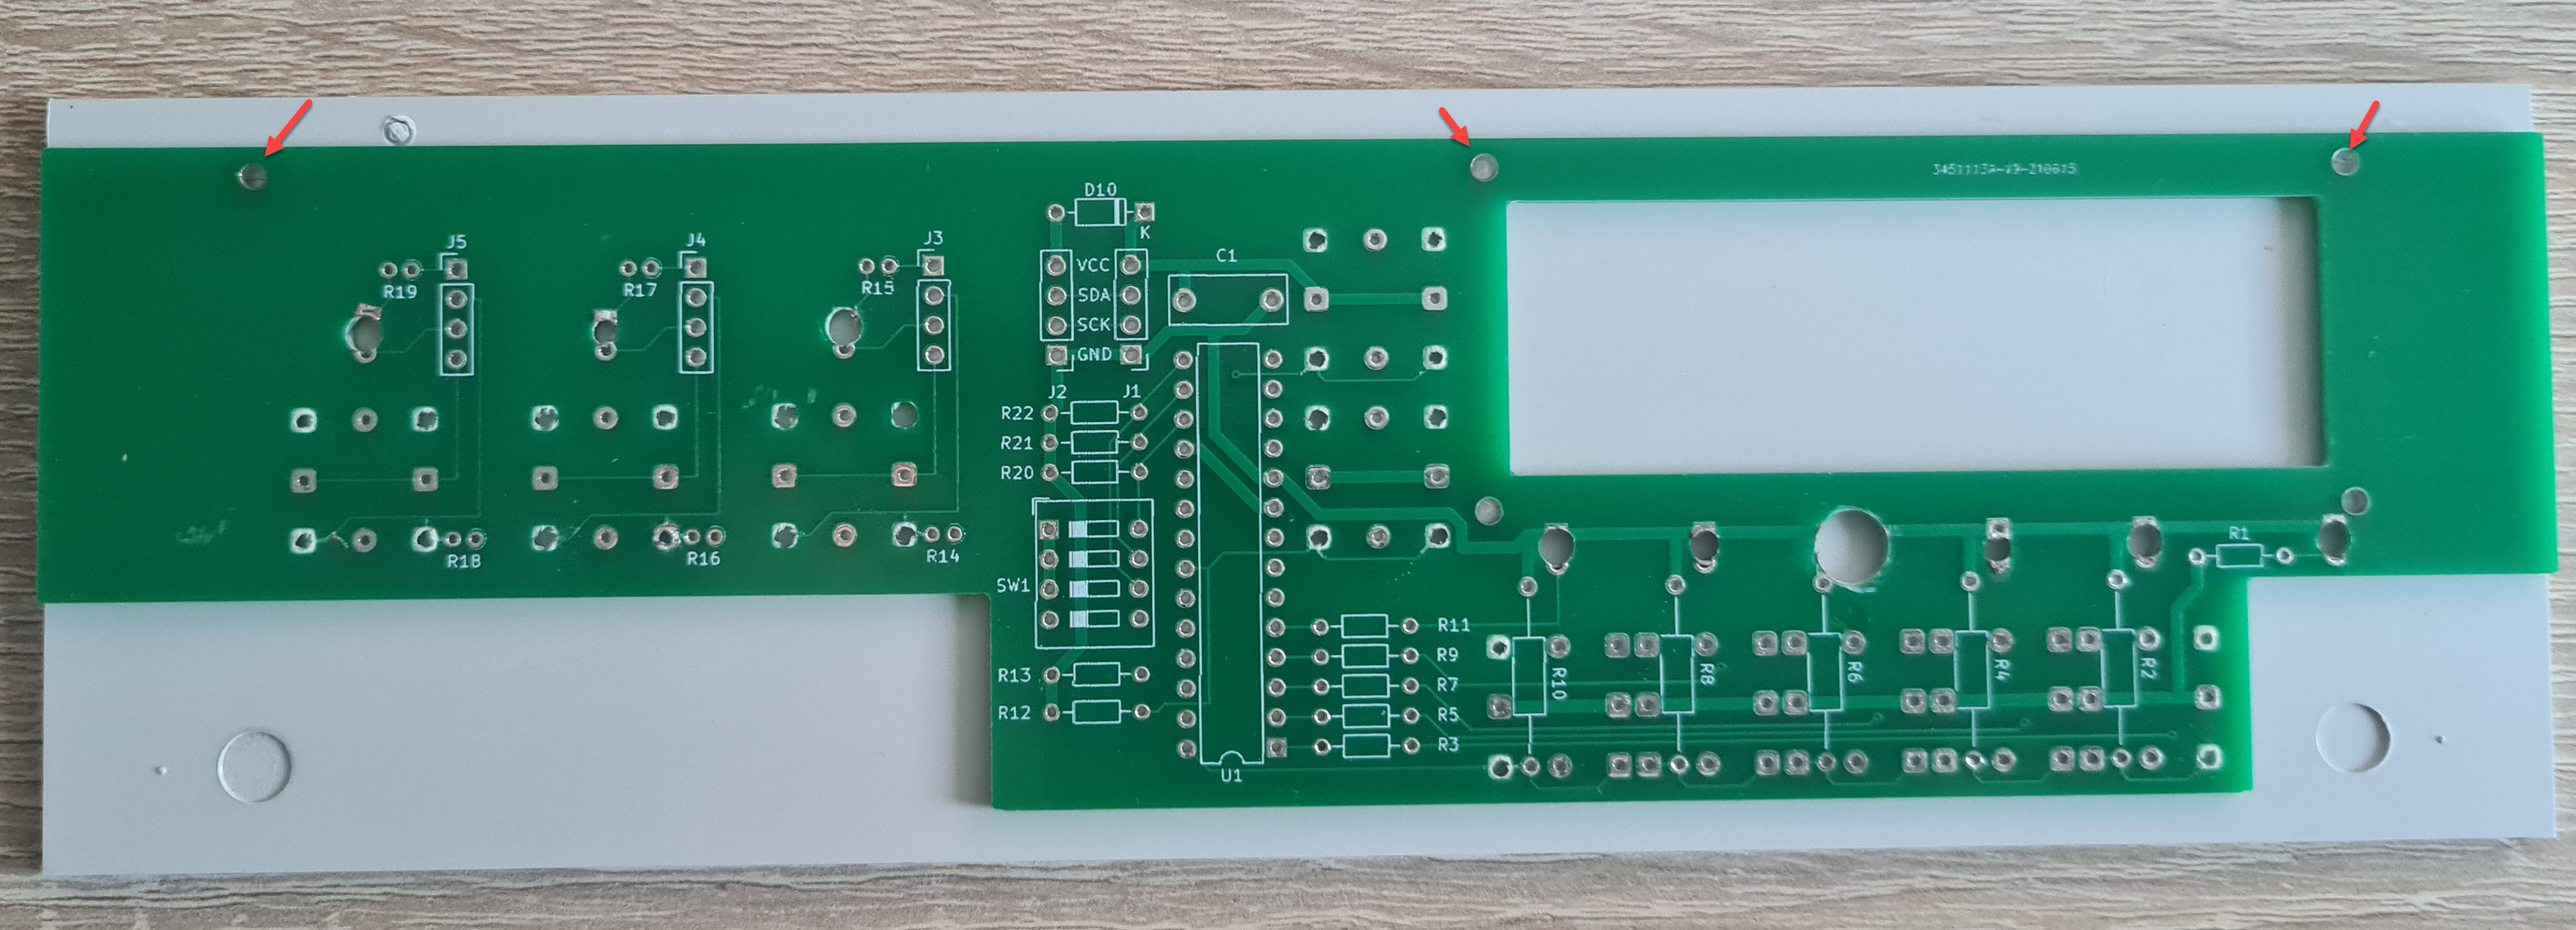
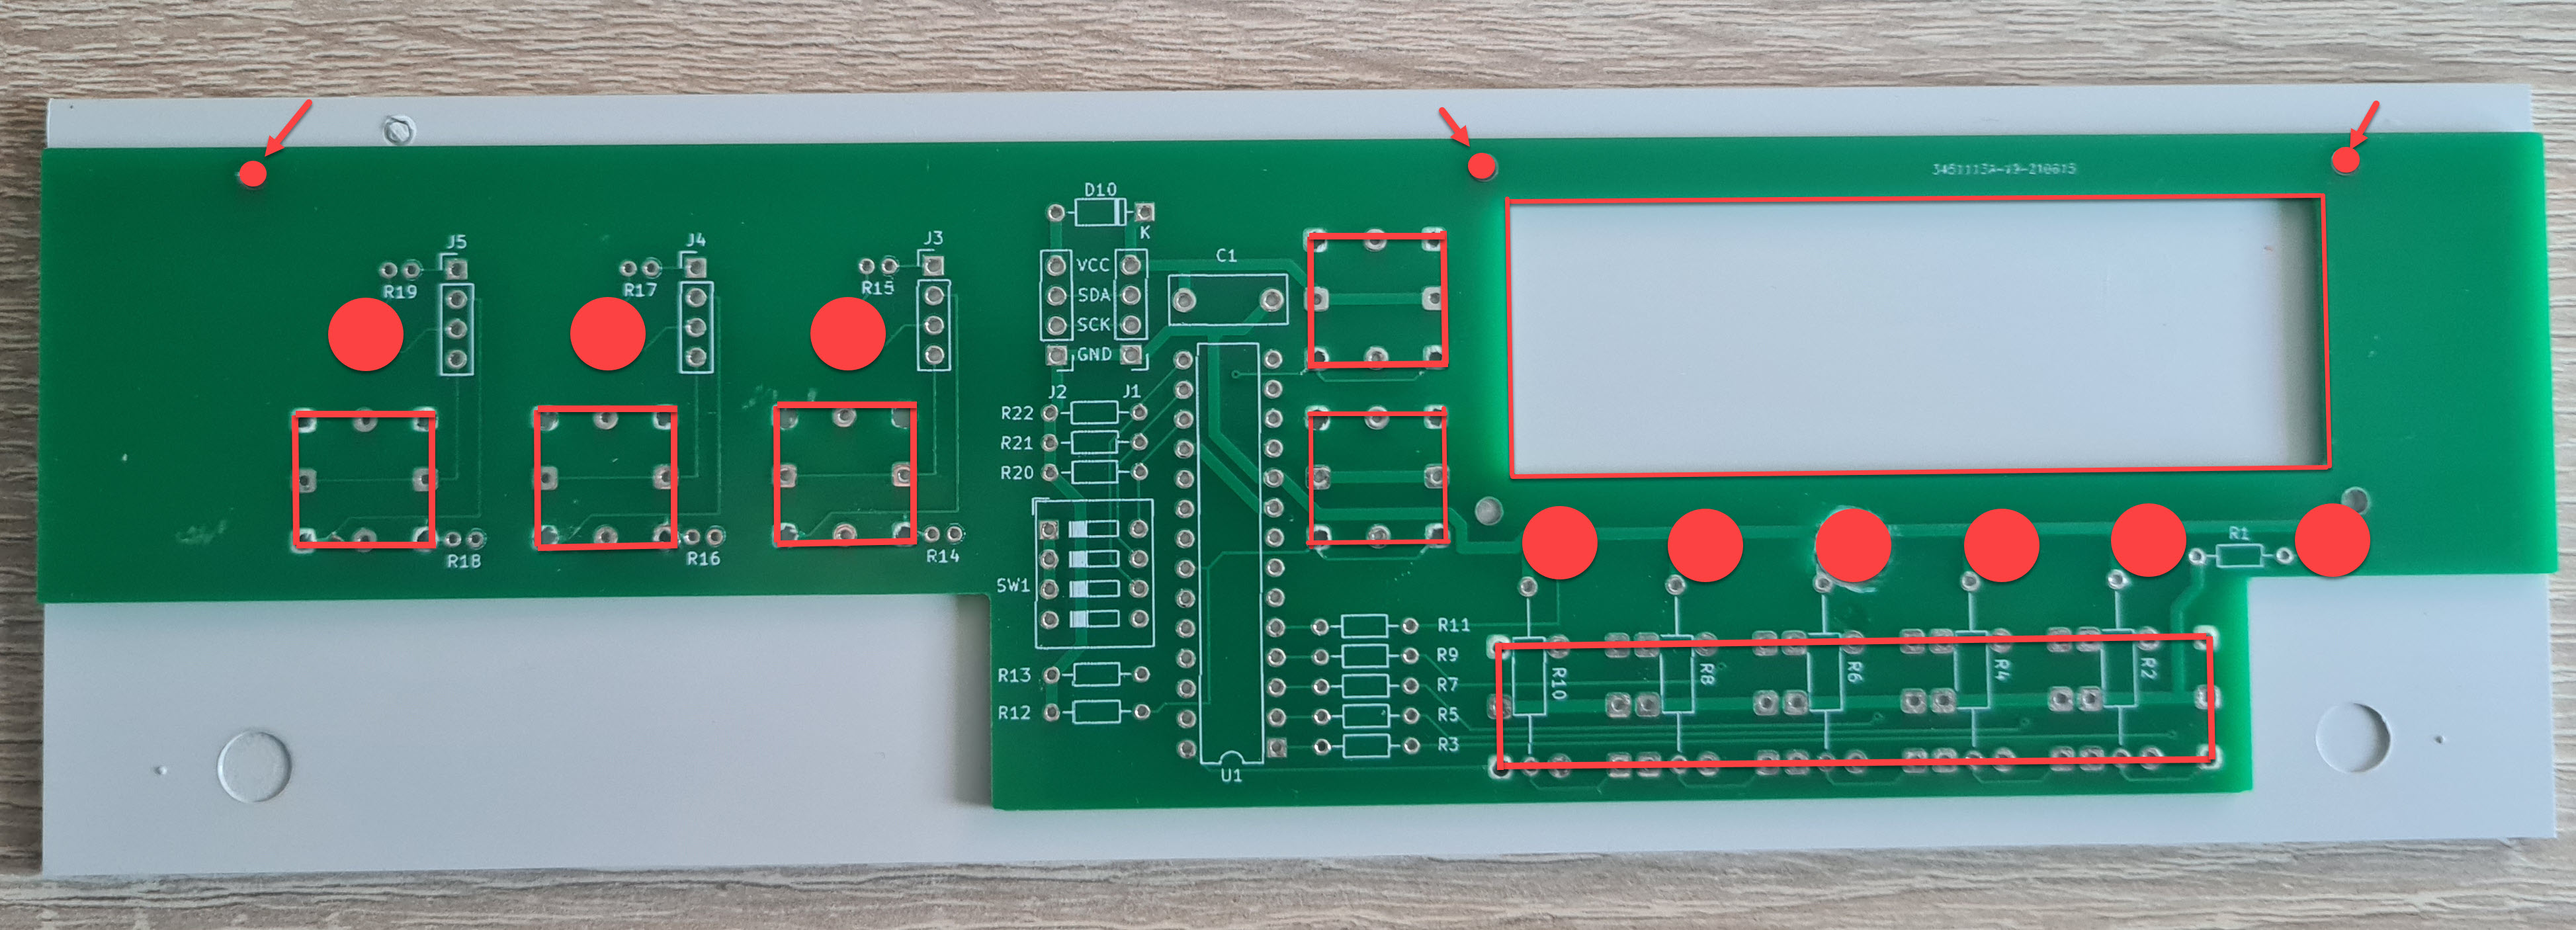
Update

diff --git a/AssemblyInstructions.md b/AssemblyInstructions.md
@@ -9,13 +9,14 @@ That is the result
 ### Boards
 The 1st step is to assemble all single boards. That is easy and needs no detailed explaination.
 ### Preparing the Case
-The assembly instructions shows how the boards are installed in the case. As case, I've used "Bopla UM 52011 L-SET Pult-Gehäuse 223 x 72 x 199 Kunststoff Hellgrau" from Bopla with additional back and front plate "Strapubox TWORZYWA SZT.-FP 2 MM C0 Frontplatte" for it.
+The assembly instructions shows how the boards are installed in the case. As case, I've used
+"Bopla UM 52011 L-SET Pult-Gehäuse 223 x 72 x 199 Kunststoff Hellgrau"
+with additional back and front plate "Strapubox TWORZYWA SZT.-FP 2 MM C0 Frontplatte" for it.
 You start with preparing a drilling template for the front plate. The board on the top is the original one, the board below is the template. From my manufacturer, I've got several boards of the same type, so that I've used one as template. Drill at the marked places larger holes e.g. 5mm for the LEDs and 2mm for the edges of the keys.
 ![](/Assembly/20220930_180229.jpg)
 Use now the template like shown - the template is in the middle of the front plate - it has two sides, so be careful. The picture shows marking the back side of the front plate. The front side might be a bit sensitive if you are using a waterproof pen.
 ![](/Assembly/20220930_183250.jpg)
-Use now a pencil and transfer the drills to the frontplate. The holes for the LEDs, you can drill with 5mm. Connect the marked marked edges. Transfer all the drills from step before and additionally the three marked ones for 2.5mm screws.
-
+Transfer all the drills from step before and additionally the three marked ones for 2.5mm screws to fix the front plate and the board. Use now a pencil and transfer the drills to the frontplate. The holes for the LEDs, you can drill with 5mm. Connect the marked marked edges of the keys. 
 
 ### Assemble Front Plate
 These 
